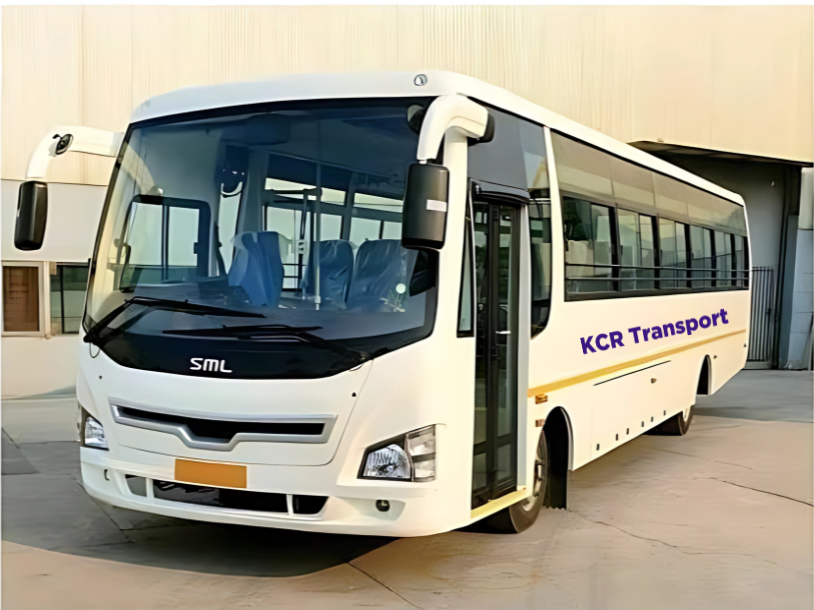
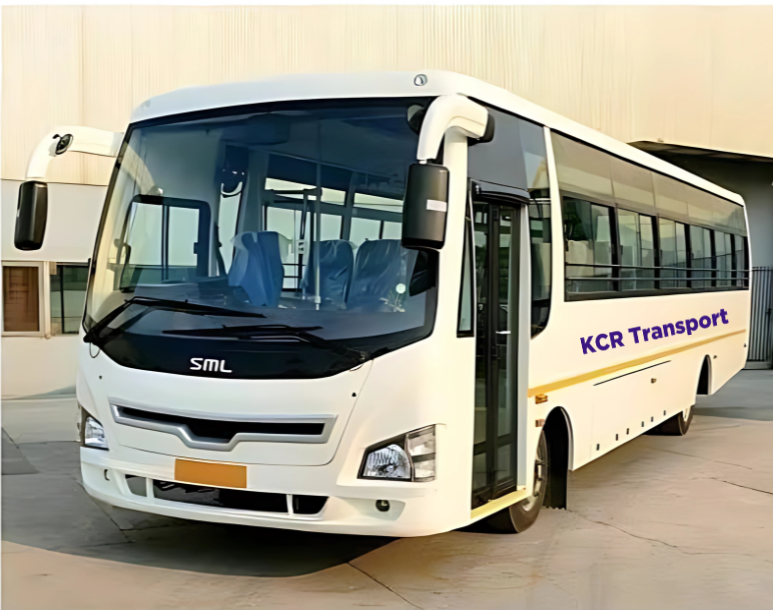
updated

diff --git a/src/components/Banner.js b/src/components/Banner.js
@@ -66,6 +66,7 @@ const Banner = () => {
                 color: '#333',
                 fontFamily: 'Poppins, sans-serif',
                 lineHeight: 1.8,
+                //textTransform: 'uppercase',
               }}
             >
               To revolutionize the transport industry by integrating technology and eco-friendly practices for better service and sustainability.

diff --git a/src/components/Buses.js b/src/components/Buses.js
@@ -160,7 +160,7 @@ Operated under the expertise of a reputed brand in the sector
         >
           <Box
             component="img"
-            src="/images/staffbu.png"
+            src="/images/staff.png"
             alt="Staff Bus"
             sx={{
               width: {xs:"100%",md:"100%",xl:"auto"},
